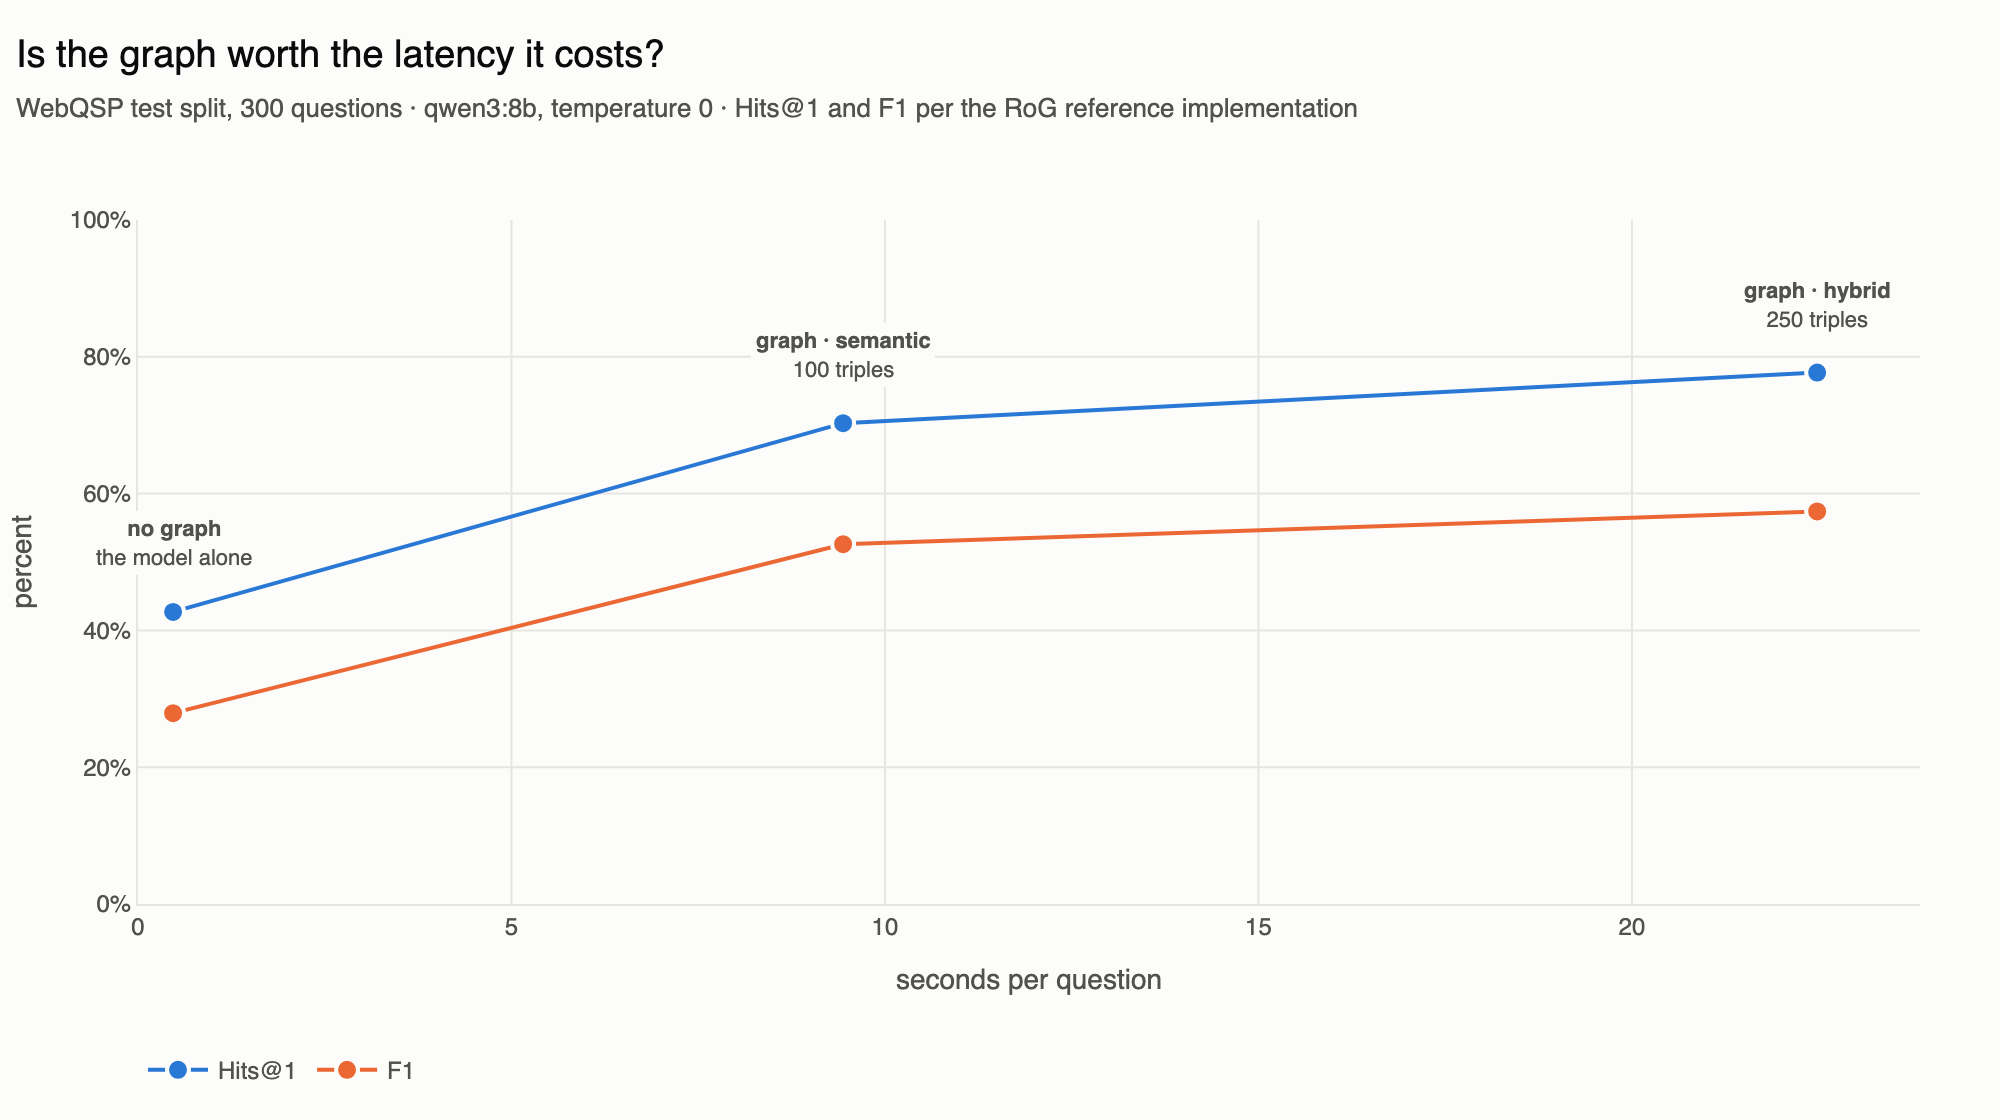
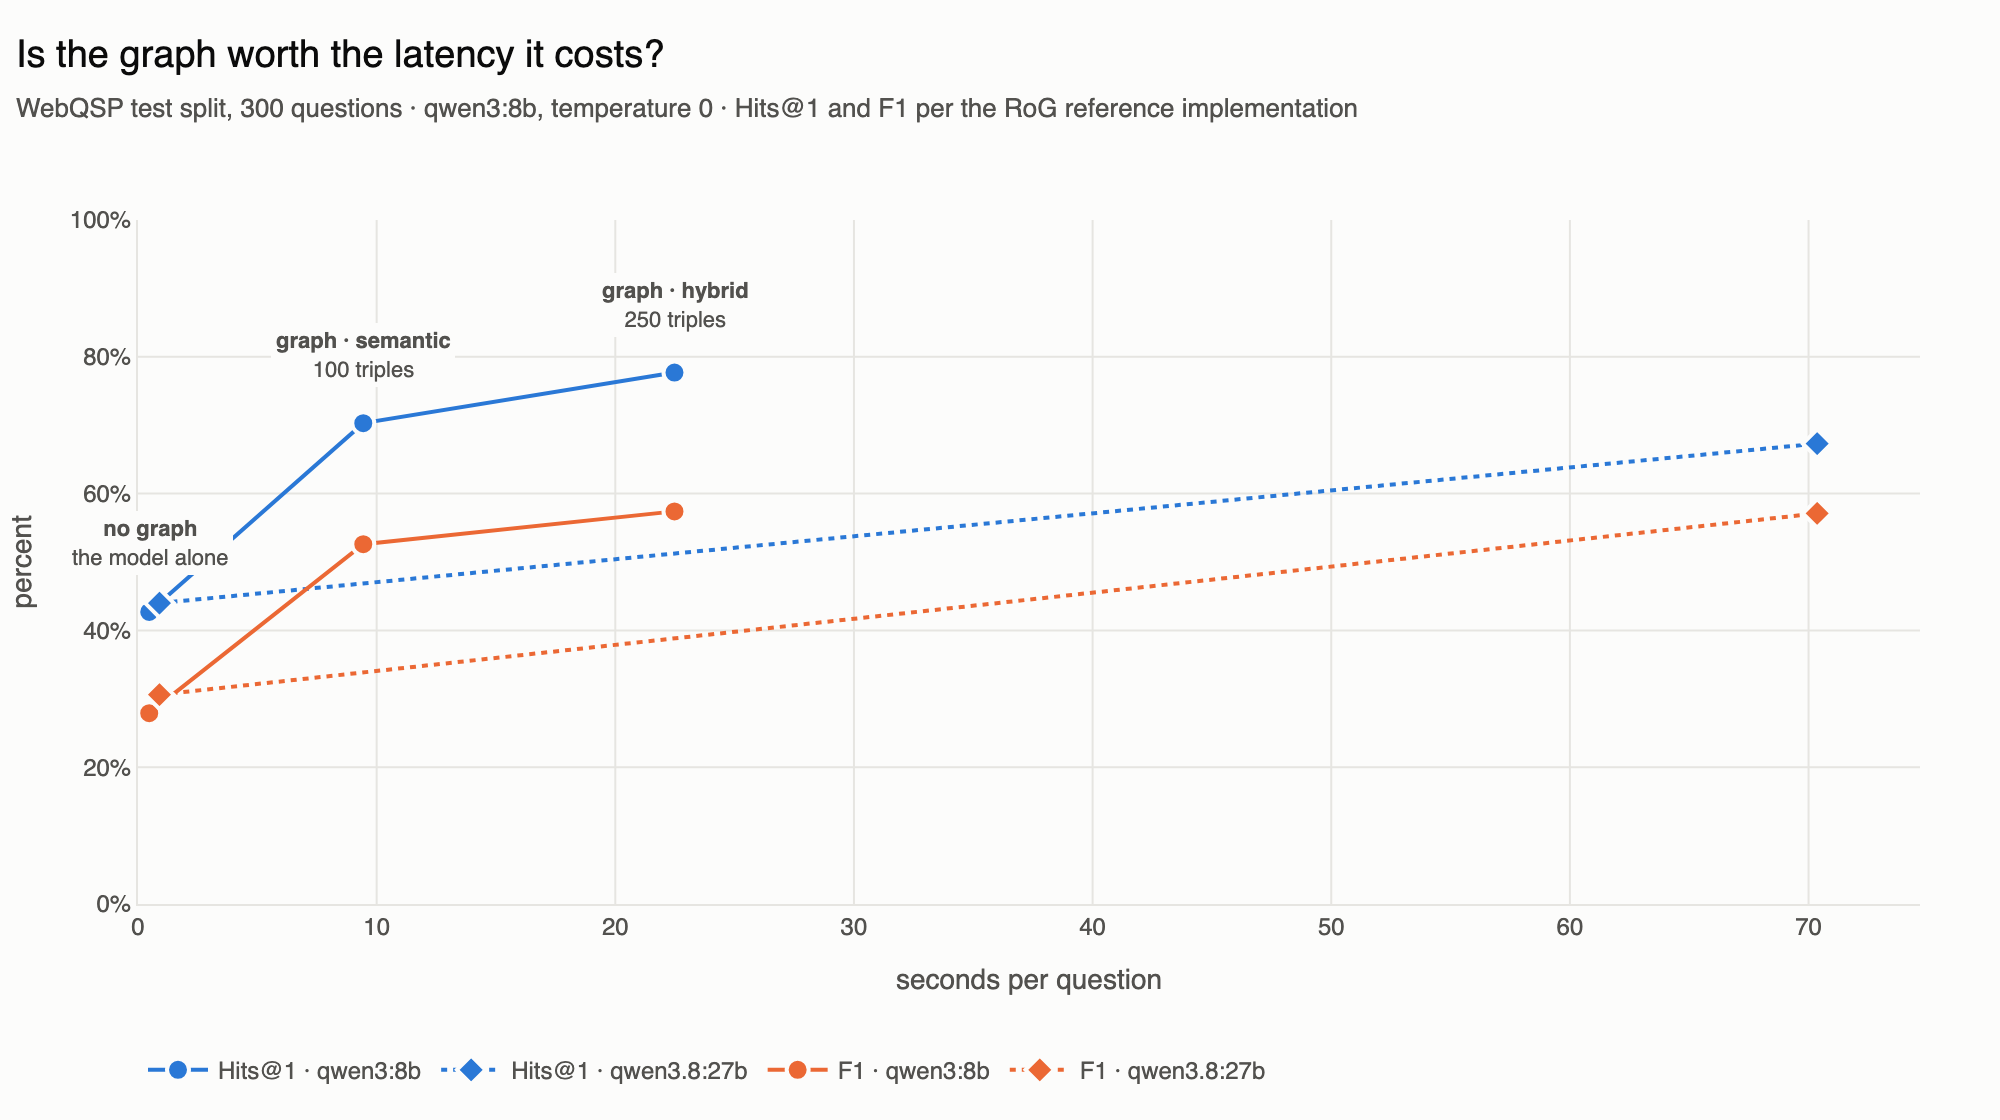
benchmarks: 27bの結果を確定。グラフはパラメータ3.4倍より価値があり、大きいモデルは無料の改善ではなかった
qwen3.8:27b（パラメータ3.4倍）を同じ検索・同じプロンプトで150問。

  条件                          Hits@1     F1      n
  qwen3:8b     グラフなし        42.7%   27.9%   300
  qwen3.8:27b  グラフなし        44.0%   30.6%   150
  qwen3:8b     グラフあり        77.7%   57.4%   300
  qwen3.8:27b  グラフあり        67.3%   57.1%   150

結果は2つ。

1. グラフがなければパラメータ3.4倍は何も変えない。同じ150問で対応を取ると
   14問ずつの完全な互角（p=1.0）。どちらもFreebaseを暗記していない。
   対してグラフは 8B で+35pt(p=9e-20)、27B で+23pt(p=8e-05)。精度を
   動かしているものはモデルサイズではない。

2. グラフありでは8Bの方が高いが、これは能力の結果ではない。対応のある検定
   では差は実在する（22勝4敗、p=0.0005）が、原因は答えを出さないこと:

     8B  「I don't know」  4/150
     27B 「I don't know」 30/150   うち19問は正解が文脈にあり、13問は8Bが正解

   プロンプトの「分からなければ I don't know と答えよ」を27Bが厳格に守り、
   20%で答えを出さない。Hits@1は正解を含むかを見るので答えなければ0点。
   両方が答えた120問に限ると差は検出できない（88.3% 対 84.2%、p=0.27）。
   F1がほぼ同じ（57.4 対 57.1）なのも整合する。

   なので、このベンチマークは2つのモデルを順位付けできない。測ったのは
   1つのプロンプトと2つのモデルの相互作用である。そう明記した。

   切り詰めによる人工物でないことも確認した: 推論出力ゼロ、空回答ゼロ、
   num_predict による切れなし。27bの回答は短くなっている（中央値14字 対 33字）。

レイテンシも測った: 27b は 70.36秒/問（8bの3.1倍）。低い点数のために3.1倍
払っている。

- accuracy.png を4行（2モデル×2条件）に。副題は
  「the graph is worth more than 3.4x the parameters」
- frontier_chart.py がモデル次元を受け取るように。色は指標、マーカー形は
  モデル、線種でモデルを区別
- 日本語版で「棄権」と書いていたのを「答えを出さずに I don't know と返す」に
  直した。伝わらない用語だった

diff --git a/benchmarks/frontier_chart.py b/benchmarks/frontier_chart.py
@@ -35,27 +35,44 @@ HITS = "#2a78d6"
 F1 = "#eb6834"
 
 
+#: Marker shape carries the reader model, colour carries the metric. Two
+#: encodings rather than four colours: a reader is comparing Hits@1 to F1
+#: *within* a model far more often than across, and adding hues for models
+#: would make the metric harder to follow to answer a rarer question.
+SHAPES = {None: "circle", "qwen3:8b": "circle", "qwen3.8:27b": "diamond"}
+
+
 def main() -> None:
     rows = json.loads((HERE / "frontier_data.json").read_text())
     rows.sort(key=lambda r: r["secs"])
+    # Group by reader model, preserving first-seen order. A file with no
+    # "model" key is one model and draws exactly as it did before.
+    models = []
+    for r in rows:
+        if r.get("model") not in models:
+            models.append(r.get("model"))
 
     figure = go.Figure()
     for key, name, color in (("hits_at_1", "Hits@1", HITS), ("f1", "F1", F1)):
-        figure.add_trace(go.Scatter(
-            x=[r["secs"] for r in rows], y=[r[key] for r in rows],
-            name=name, mode="lines+markers",
-            line=dict(color=color, width=2),
-            marker=dict(size=11, color=color,
-                        line=dict(color=SURFACE, width=2)),  # 2px surface ring
-            hovertemplate=("%{customdata}<br>" + name +
-                           " %{y:.1f}%<br>%{x:.1f} s per question<extra></extra>"),
-            customdata=[r["label"] for r in rows],
-        ))
+        for model in models:
+            group = [r for r in rows if r.get("model") == model]
+            label = name if model is None else f"{name} · {model}"
+            figure.add_trace(go.Scatter(
+                x=[r["secs"] for r in group], y=[r[key] for r in group],
+                name=label, mode="lines+markers",
+                line=dict(color=color, width=2,
+                          dash="solid" if model == models[0] else "dot"),
+                marker=dict(size=11, color=color, symbol=SHAPES.get(model, "circle"),
+                            line=dict(color=SURFACE, width=2)),  # 2px surface ring
+                hovertemplate=("%{customdata}<br>" + label +
+                               " %{y:.1f}%<br>%{x:.1f} s per question<extra></extra>"),
+                customdata=[r["label"] for r in group],
+            ))
 
     # One direct label per point, on the Hits@1 series only — labelling both
     # series doubles the text for no information, since a point's identity is
     # its x position.
-    for r in rows:
+    for r in (r for r in rows if r.get("model") in (None, models[0])):
         figure.add_annotation(
             x=r["secs"], y=r["hits_at_1"],
             text=f"<b>{r['label']}</b><br>{r['sub']}",

diff --git a/benchmarks/accuracy_chart.py b/benchmarks/accuracy_chart.py
@@ -33,9 +33,10 @@ F1 = "#eb6834"
 #: bottom to top, so the story reads upward: no graph, then the graph as it
 #: was, then the graph with the retrieval this benchmark ended up choosing.
 ROWS = [
-    ("ans_nograph_8b.jsonl", "no graph", "the model alone"),
-    ("ans_1hopcvt_plain_8b.jsonl", "graph · 1-hop + CVT", "250 triples"),
-    ("ans_hybrid_grounded_8b.jsonl", "graph · hybrid retrieval", "250 triples, grounded answers"),
+    ("ans_nograph_27b.jsonl", "no graph · qwen3.8:27b", "3.4x the parameters"),
+    ("ans_nograph_8b.jsonl", "no graph · qwen3:8b", "the model alone"),
+    ("ans_hybrid_grounded_27b.jsonl", "graph · qwen3.8:27b", "250 triples — abstains on 20%"),
+    ("ans_hybrid_grounded_8b.jsonl", "graph · qwen3:8b", "250 triples, grounded answers"),
 ]
 
 #: Answer-in-context for the retrieval the top row uses, on the same 300
@@ -80,9 +81,10 @@ def main() -> None:
     figure.update_layout(
         title=dict(
             text=("Does a knowledge graph help the model answer?<br>"
-                  f"<span style='font-size:13px;color:{INK_MUTED}'>WebQSP test split · "
-                  f"qwen3:8b, temperature 0 · Hits@1 and F1 per the RoG reference "
-                  f"implementation</span>"),
+                  f"<span style='font-size:13px;color:{INK_MUTED}'>WebQSP test "
+                  "split, temperature 0 · Hits@1 and F1 per the RoG reference "
+                  "implementation · the graph is worth more than 3.4x the "
+                  "parameters</span>"),
             font=dict(size=19, color=INK), x=0.008, xanchor="left", y=0.955,
         ),
         barmode="group", bargap=0.34, bargroupgap=0.12,

diff --git a/benchmarks/README_jp.md b/benchmarks/README_jp.md
@@ -224,6 +224,7 @@ API キーは、名前も付けられず安定もしない。
 | グラフなし | 0.47 | 約56トークン | 42.7% |
 | グラフ · 意味検索、100トリプル | 9.44 | 約1,823トークン | 70.3% |
 | グラフ · hybrid、250トリプル | 22.48 | 約4,377トークン | 77.7% |
+| 同じものを `qwen3.8:27b` で | **70.36** | 約4,377トークン | 67.3% |
 
 最初の9秒が27.6ポイントを買う。次の13秒がさらに7.4ポイントを買い、対応のある
 検定はそれが実在すると言う（p = 0.002）— つまり曲線は測定範囲の端でまだ登って
@@ -269,6 +270,57 @@ API キーは、名前も付けられず安定もしない。
   タスクにファインチューニングしたリーダーを走らせており、落とした38問はまさに
   より強いリーダーが得点する場所である。リーダーの差し替えはフラグ1つ
   （`--model`）で、2つの半分を分離可能に保っている狙いがそれである。
+
+## より大きなリーダーは効くのか
+
+自然な次の一手はより大きなモデルなので、測った: `qwen3.8:27b`、パラメータ3.4倍、
+同じ検索、同じプロンプト、同じ質問の最初の150問。
+
+| 条件 | Hits@1 | F1 | n |
+|---|---|---|---|
+| `qwen3:8b` — グラフなし | 42.7% | 27.9% | 300 |
+| `qwen3.8:27b` — グラフなし | 44.0% | 30.6% | 150 |
+| `qwen3:8b` — グラフあり | **77.7%** | 57.4% | 300 |
+| `qwen3.8:27b` — グラフあり | 67.3% | 57.1% | 150 |
+
+結果は2つあり、2つ目は歩いて確かめる価値のある罠である。
+
+**グラフがなければ、パラメータ3.4倍は何も変えない。** 同じ150問で対応を取ると
+2つのモデルはぴったり互角である — 14問ずつ、McNemar 検定で p = 1.0。どちらも
+Freebase を暗記しておらず、大きいことはそれには効かない。これに対してグラフは
+8B で +35ポイント（p = 9e-20）、27B で +23ポイント（p = 8e-05）の価値がある。
+**ここで精度を動かしているものは、モデルサイズではない。**
+
+**グラフがあると 8B の方が高い点を取る — そしてそれは能力の結果ではない。**
+対応のある検定はその差が実在すると言う（27B が外した22問で8B が正解、8B が外した
+4問で27B が正解、p = 0.0005）が、原因は能力ではなく「答えないこと」である —
+27B は答えを出さずに「I don't know」と返す回数がはるかに多い:
+
+| | 答えずに「I don't know」と返した | そのうち正解が文脈にあった | そのうち 8B は正解していた |
+|---|---|---|---|
+| `qwen3:8b` | 4 / 150 | — | — |
+| `qwen3.8:27b` | **30 / 150** | 19 | 13 |
+
+プロンプトには*「分からなければ、正確に I don't know と答えよ」*と書いてあり、
+27B はそれをはるかに厳格に守る — 質問の20%で答えを出さず、そのほとんどは正解が
+目の前に座っていた。Hits@1 は「正解を含んでいるか」を見るので、答えなければ必ず
+0点である。両モデルが実際に答えた120問に限ると、差は検出できなくなる:
+88.3% 対 84.2%、p = 0.27。F1 はどちらもほとんど動かない（57.4 対 57.1）が、
+それも整合する: 答えないことは Hits@1 を丸ごと削り、F1 は与えられた回答だけを
+採点するからである。
+
+**だからこのベンチマークは2つのモデルを順位付けできない。** 測ったのは1つの
+プロンプトと2つのモデルの相互作用であり、誠実な読み方はこうである:
+
+- グラフは両方で有意に効き、その効き方はサイズよりはるかに大きい
+- より大きなリーダーは無料のアップグレードではない — 同じ指示を違うように
+  受け取りうるし、ここではそれが Hits@1 を12ポイント削った
+- リーダーを差し替えるなら、「分からなければそう言え」の指示を再調整して測り直す
+  こと。`--model` が
+  それをフラグ1つの変更にしている。2つの半分を分離可能に保っている理由がこれで
+  ある
+
+しかも低い点数のために3.4倍のレイテンシを払っている。同じ発見の実用版である。
 
 ## 公開されている数値の位置
 

diff --git a/benchmarks/README_zh.md b/benchmarks/README_zh.md
@@ -212,6 +212,7 @@ p = 9e-20）还很远，值得当作两个主张里较弱的那一个。
 | 无图谱 | 0.47 | 约 56 token | 42.7% |
 | 图谱 · 语义检索，100 条 | 9.44 | 约 1,823 token | 70.3% |
 | 图谱 · hybrid，250 条 | 22.48 | 约 4,377 token | 77.7% |
+| 同样配置换成 `qwen3.8:27b` | **70.36** | 约 4,377 token | 67.3% |
 
 头 9 秒买来 27.6 个百分点。接下来的 13 秒再买 7.4 个，而配对检验说这是真的
 （p = 0.002）— 所以曲线在它停下的地方仍在攀升，这里并没有找到「再多上下文就不
@@ -250,6 +251,51 @@ p = 9e-20）还很远，值得当作两个主张里较弱的那一个。
   给出的结果。已发表的领先者跑的是 GPT-4 级或针对任务微调过的阅读模型，而那
   38 道被丢掉的题正是更强的阅读模型会得分的地方。换阅读模型只是改一个参数
   （`--model`），而把这两半保持可分离，目的就在这里。
+
+## 更大的阅读模型有帮助吗
+
+显而易见的下一步是换更大的模型，所以我们测了：`qwen3.8:27b`，参数是 3.4 倍，
+同样的检索，同样的提示，在同一批问题的前 150 题上。
+
+| 条件 | Hits@1 | F1 | n |
+|---|---|---|---|
+| `qwen3:8b` — 无图谱 | 42.7% | 27.9% | 300 |
+| `qwen3.8:27b` — 无图谱 | 44.0% | 30.6% | 150 |
+| `qwen3:8b` — 有图谱 | **77.7%** | 57.4% | 300 |
+| `qwen3.8:27b` — 有图谱 | 67.3% | 57.1% | 150 |
+
+有两个结果，而第二个是一个值得走一遍的陷阱。
+
+**没有图谱时，3.4 倍的参数什么都没改变。** 在同一批 150 题上配对，两个模型完全
+持平 — 各赢 14 题，McNemar 检验 p = 1.0。两者都没有背下 Freebase，而更大并不能
+帮上这件事。相比之下，图谱在 8B 上值 +35 个百分点（p = 9e-20），在 27B 上值
++23 个（p = 8e-05）。**在这里推动准确率的东西，不是模型规模。**
+
+**有图谱时 8B 得分更高 — 而这不是一个能力上的结论。** 配对检验说这个差距是真的
+（8B 在 27B 漏掉的 22 题上答对，27B 在 8B 漏掉的 4 题上答对，p = 0.0005），但其
+机制是弃答，不是能力：
+
+| | 回答「I don't know」 | 其中答案在上下文里 | 其中 8B 答对了 |
+|---|---|---|---|
+| `qwen3:8b` | 4 / 150 | — | — |
+| `qwen3.8:27b` | **30 / 150** | 19 | 13 |
+
+提示里写的是*「如果你不知道，就精确地回答：I don't know」*，而 27B 把这句话执行
+得严格得多 — 在 20% 的题目上拒答，而其中大多数题的答案就摆在它眼前。只看两个
+模型都真正作答的那 120 题，这个差异就不再可检测：88.3% 对 84.2%，p = 0.27。F1
+两边几乎没动（57.4 对 57.1），这也吻合：弃答直接砍掉 Hits@1，而 F1 只给已经给出
+的答案打分。
+
+**所以这个基准测试无法给这两个模型排名。** 它测到的是一个提示和两个模型之间的
+相互作用，而诚实的读法是：
+
+- 图谱对两者都显著有效，而且其作用远大于规模；
+- 更大的阅读模型不是一次免费升级 — 它可能以不同的方式执行同一条指令，而在这里
+  这件事花掉了 12 个百分点的 Hits@1；
+- 如果你要换阅读模型，请重新调整那条弃答指令并重新测量。`--model` 让这只是改一个
+  参数，而这正是把两半保持可分离的理由。
+
+而且它是用 3.4 倍的延迟换来一个更低的分数。这是同一个发现的实用版本。
 
 ## 已发表数字处于什么位置
 

diff --git a/benchmarks/README.md b/benchmarks/README.md
@@ -242,6 +242,7 @@ one question actually waits:
 | no graph | 0.47 | ~56 tokens | 42.7% |
 | graph · semantic, 100 triples | 9.44 | ~1,823 tokens | 70.3% |
 | graph · hybrid, 250 triples | 22.48 | ~4,377 tokens | 77.7% |
+| the same, on `qwen3.8:27b` | **70.36** | ~4,377 tokens | 67.3% |
 
 The first nine seconds buy 27.6 points. The next thirteen buy 7.4 more, and
 the paired test says those are real (p = 0.002) — so the curve is still
@@ -290,6 +291,58 @@ Two things follow, and both are worth saying plainly:
   or task-fine-tuned readers, and the 38 dropped questions are exactly where
   a stronger one would score. Swapping the reader is a one-flag change
   (`--model`), which is the point of keeping the two halves separable.
+
+## Does a bigger reader help?
+
+The obvious next move is a bigger model, so it was measured: `qwen3.8:27b`,
+3.4x the parameters, same retrieval, same prompt, on the first 150 of the same
+questions.
+
+| condition | Hits@1 | F1 | n |
+|---|---|---|---|
+| `qwen3:8b` — no graph | 42.7% | 27.9% | 300 |
+| `qwen3.8:27b` — no graph | 44.0% | 30.6% | 150 |
+| `qwen3:8b` — graph | **77.7%** | 57.4% | 300 |
+| `qwen3.8:27b` — graph | 67.3% | 57.1% | 150 |
+
+Two results, and the second one is a trap worth walking through.
+
+**Without a graph, 3.4x the parameters changes nothing.** Paired on the same
+150 questions the two models are exactly level — 14 questions each, McNemar
+p = 1.0. Neither has memorised Freebase, and being larger does not help with
+that. Against this, the graph is worth +35 points on the 8B (p = 9e-20) and
++23 on the 27B (p = 8e-05). **Whatever moves accuracy here, it is not model
+size.**
+
+**With a graph the 8B scores higher — and that is not a capability result.**
+The paired test says the gap is real (8B right on 22 the 27B missed, 27B on 4,
+p = 0.0005), but the mechanism is abstention, not ability:
+
+| | answered "I don't know" | of those, answer was in context | of those, 8B got it right |
+|---|---|---|---|
+| `qwen3:8b` | 4 / 150 | — | — |
+| `qwen3.8:27b` | **30 / 150** | 19 | 13 |
+
+The prompt says *"If you do not know, reply exactly: I don't know"*, and the
+27B follows it far more strictly — declining on 20% of questions, most of
+which had the answer sitting in front of it. Restrict to the 120 questions
+both models actually answered and the difference stops being detectable:
+88.3% against 84.2%, p = 0.27. F1 barely moves either way (57.4 against
+57.1), which fits: abstaining costs Hits@1 outright while F1 only grades the
+answers that were given.
+
+**So this benchmark cannot rank the two models.** What it measured is an
+interaction between one prompt and two models, and the honest reading is:
+
+- the graph helps both, significantly, and by far more than size does;
+- a bigger reader is not a free upgrade — it can follow the same instruction
+  differently, and here that cost 12 points of Hits@1;
+- if you swap the reader, re-tune the abstention instruction and re-measure.
+  `--model` makes that a one-flag change, which is the reason the two halves
+  are kept separable.
+
+It also cost 3.4x the latency for a lower score, which is the practical
+version of the same finding.
 
 ## Where published numbers sit
 
